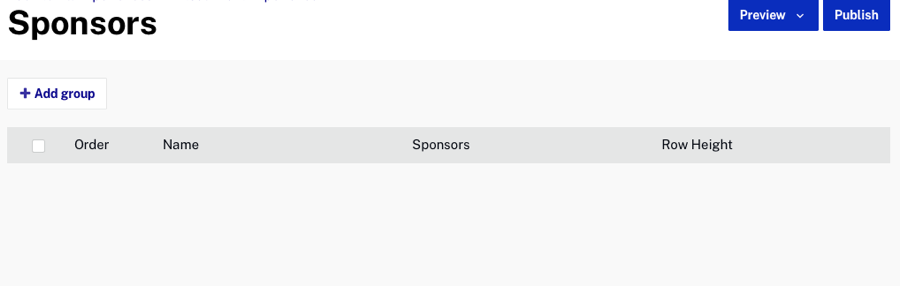
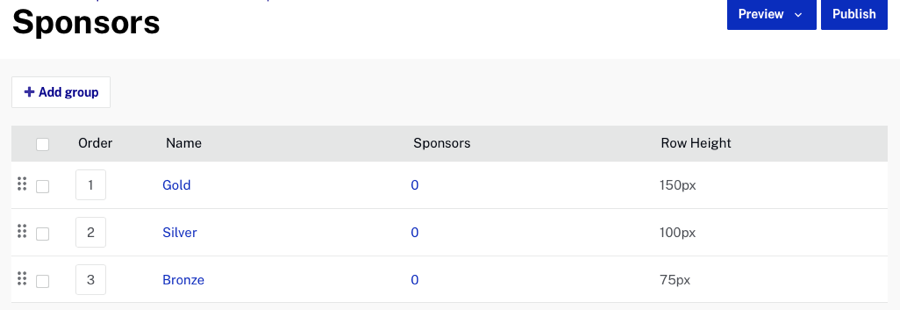
updates

diff --git a/_site/experiences/virtual-event/managing-event-sponsors.html b/_site/experiences/virtual-event/managing-event-sponsors.html
@@ -711,20 +711,39 @@ function doGTranslate(lang_pair) {if(lang_pair.value)lang_pair=lang_pair.value;i
   <h1>Managing Event Sponsors</h1>
   <summary>In this topic you will learn how to manage the event sponsors for a  Virtual Event  Experience.</summary>
   <section class="bcls-section">
-    <p>Using the Gallery Site Editor, you can manage the event sponsors that appear on the experience homepage. To manage the event sponsors, click <strong>SITE FEATURES &gt; Sponsors </strong> in the left navigation. A list of sponsor groups will appear.</p>
+    <p>Using the Gallery Site Editor, you can manage the event sponsors that appear on the experience homepage. Sponsors are organized into sponsor groups which represent the various sponsor levels. For example, your event might have &quot;gold&quot;, &quot;silver&quot; and &quot;bronze&quot; level sponsors. Once sponsor groups are created, sponsors can be added into each group. Sponsor groups and logos will appear on the experience homepage. </p>
+    <p>To manage the event sponsors, click <strong>SITE FEATURES &gt; Sponsors </strong> in the left navigation. A list of sponsor groups will appear.</p>
     <figure class="bcls-figure"><img class="bcls-image--no-border" alt="" src="/assets/images/experiences/virtual-event/sponsor-groups-listing.png" /></figure>
   </section>
   <section class="bcls-section">
     <h2 id="create-group">Creating a sponsor group</h2>
-    <p>Sponsor groups are created to organize sponsors into levels. For example, your event might have &quot;gold&quot;, &quot;silver&quot; and &quot;bronze&quot; level sponsors. Creating a sponsor group allows you to group the sponsors by level and control the size of the sponsor logo image that will appear on the event homepage. To create a new sponsor group, follow these steps.</p>
+    <p>Sponsor groups are created to organize sponsors into levels. Creating a sponsor group allows you to group the sponsors by level and control the size of the sponsor logo image that will appear on the event homepage. To create a new sponsor group, follow these steps.</p>
     <ol class="bcls-tasklist-restart">
       <li>Click <strong>Add group</strong>.</li>
-      <li>Enter the speaker <strong>First Name</strong> and <strong>Last Name</strong>.</li>
-      <li></li>
-      <li>
-        <figure class="bcls-figure"><img class="bcls-image--no-border" alt="" src="/assets/images/experiences/virtual-event/speaker-create-speaker.png" /></figure>
+      <li>Enter the <strong>Group Name</strong>.</li>
+      <li>Enter the <strong>Group row height</strong> (in pixels). The row height will control the image height of the sponsor logos in the group.
+        <figure class="bcls-figure"><img class="bcls-image--no-border" alt="" src="/assets/images/experiences/virtual-event/sponsors-add-group.png" /></figure>
       </li>
       <li>Click <strong>Save</strong>.</li>
+    </ol>
+  </section>
+  <section class="bcls-section">
+    <h2 id="edit-group">Editing a sponsor group</h2>
+    <p>To edit a sponsor group, follow these steps.</p>
+    <ol class="bcls-tasklist-restart">
+      <li>Click on a sponsor group name to open the <strong>Group settings</strong> panel.</li>
+      <li>Make any needed changes.</li>
+      <li>Click <strong>Save</strong>.</li>
+    </ol>
+  </section>
+  <section class="bcls-section">
+    <h2 id="change-group-order">Changing the sponsor group order</h2>
+    <p>To change the order of the sponsor groups, follow these steps.</p>
+    <ol class="bcls-tasklist-restart">
+      <li>Enter the sponsor order in the <strong>Order</strong> field <strong>OR</strong>.</li>
+      <li>Click on the grab handle for the sponsor group and drag the group to a new location.
+        <figure class="bcls-figure"><img class="bcls-image--no-border" alt="" src="/assets/images/experiences/virtual-event/sponsor-group-order.png" /></figure>
+      </li>
     </ol>
   </section>
   <section class="bcls-section">

diff --git a/experiences/virtual-event/managing-event-sponsors.html b/experiences/virtual-event/managing-event-sponsors.html
@@ -9,20 +9,39 @@ layout: staging
   <h1>Managing Event Sponsors</h1>
   <summary>{{ page.description }}</summary>
   <section class="bcls-section">
-    <p>Using the Gallery Site Editor, you can manage the event sponsors that appear on the experience homepage. To manage the event sponsors, click <strong>SITE FEATURES &gt; Sponsors </strong> in the left navigation. A list of sponsor groups will appear.</p>
+    <p>Using the Gallery Site Editor, you can manage the event sponsors that appear on the experience homepage. Sponsors are organized into sponsor groups which represent the various sponsor levels. For example, your event might have &quot;gold&quot;, &quot;silver&quot; and &quot;bronze&quot; level sponsors. Once sponsor groups are created, sponsors can be added into each group. Sponsor groups and logos will appear on the experience homepage. </p>
+    <p>To manage the event sponsors, click <strong>SITE FEATURES &gt; Sponsors </strong> in the left navigation. A list of sponsor groups will appear.</p>
     <figure class="bcls-figure"><img class="bcls-image--no-border" alt="" src="/assets/images/experiences/virtual-event/sponsor-groups-listing.png" /></figure>
   </section>
   <section class="bcls-section">
     <h2 id="create-group">Creating a sponsor group</h2>
-    <p>Sponsor groups are created to organize sponsors into levels. For example, your event might have &quot;gold&quot;, &quot;silver&quot; and &quot;bronze&quot; level sponsors. Creating a sponsor group allows you to group the sponsors by level and control the size of the sponsor logo image that will appear on the event homepage. To create a new sponsor group, follow these steps.</p>
+    <p>Sponsor groups are created to organize sponsors into levels. Creating a sponsor group allows you to group the sponsors by level and control the size of the sponsor logo image that will appear on the event homepage. To create a new sponsor group, follow these steps.</p>
     <ol class="bcls-tasklist-restart">
       <li>Click <strong>Add group</strong>.</li>
-      <li>Enter the speaker <strong>First Name</strong> and <strong>Last Name</strong>.</li>
-      <li></li>
-      <li>
-        <figure class="bcls-figure"><img class="bcls-image--no-border" alt="" src="/assets/images/experiences/virtual-event/speaker-create-speaker.png" /></figure>
+      <li>Enter the <strong>Group Name</strong>.</li>
+      <li>Enter the <strong>Group row height</strong> (in pixels). The row height will control the image height of the sponsor logos in the group.
+        <figure class="bcls-figure"><img class="bcls-image--no-border" alt="" src="/assets/images/experiences/virtual-event/sponsors-add-group.png" /></figure>
       </li>
       <li>Click <strong>Save</strong>.</li>
+    </ol>
+  </section>
+  <section class="bcls-section">
+    <h2 id="edit-group">Editing a sponsor group</h2>
+    <p>To edit a sponsor group, follow these steps.</p>
+    <ol class="bcls-tasklist-restart">
+      <li>Click on a sponsor group name to open the <strong>Group settings</strong> panel.</li>
+      <li>Make any needed changes.</li>
+      <li>Click <strong>Save</strong>.</li>
+    </ol>
+  </section>
+  <section class="bcls-section">
+    <h2 id="change-group-order">Changing the sponsor group order</h2>
+    <p>To change the order of the sponsor groups, follow these steps.</p>
+    <ol class="bcls-tasklist-restart">
+      <li>Enter the sponsor order in the <strong>Order</strong> field <strong>OR</strong>.</li>
+      <li>Click on the grab handle for the sponsor group and drag the group to a new location.
+        <figure class="bcls-figure"><img class="bcls-image--no-border" alt="" src="/assets/images/experiences/virtual-event/sponsor-group-order.png" /></figure>
+      </li>
     </ol>
   </section>
   <section class="bcls-section">
